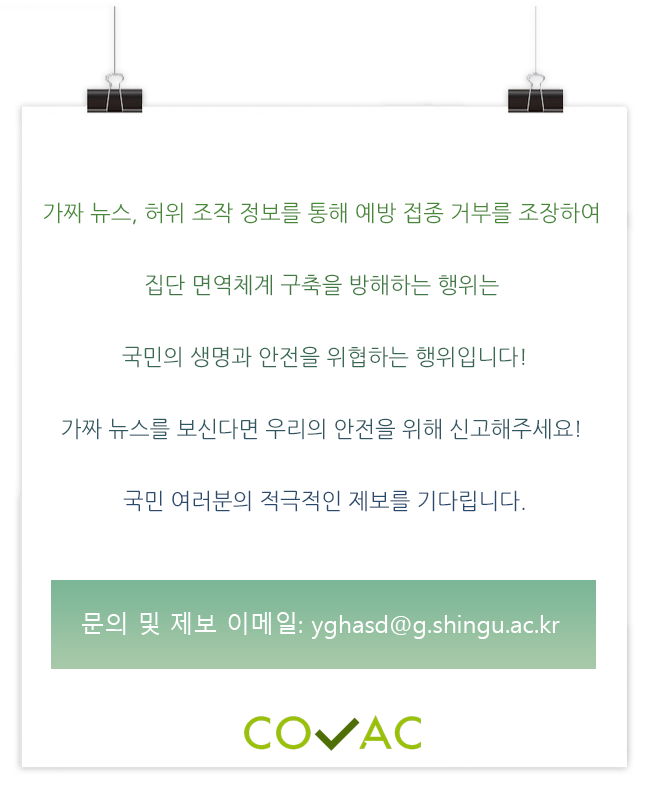
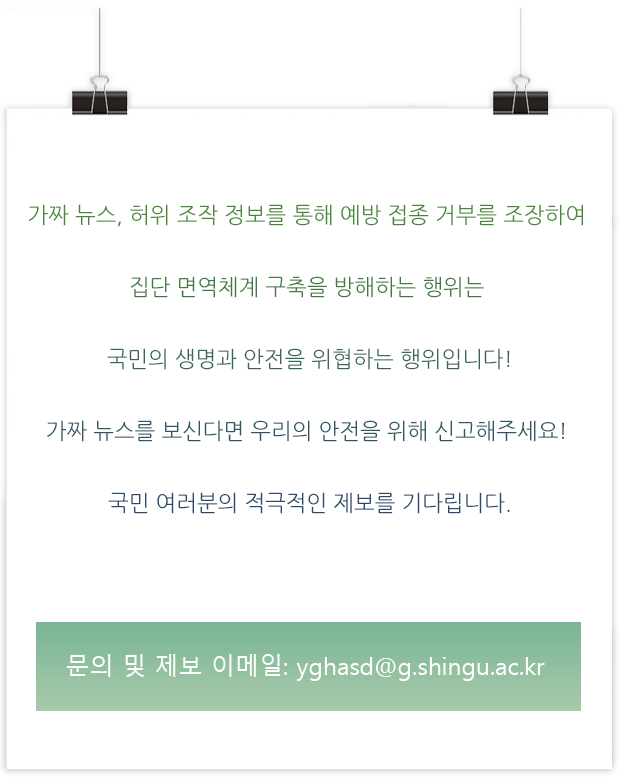
광고 사진 수정 공지사항 페이지 사진 수정

diff --git a/index.html b/index.html
@@ -465,7 +465,7 @@
 									<div class="ad_wrapper_mainpage">
 										<script type="text/javascript">
 												var imgArray= new Array();
-												imgArray[0] = "./src/assets/ad1.png";
+												imgArray[0] = "./src/assets/ad.png";
 												imgArray[1] = "./src/assets/ad2.png";
 												imgArray[2] = "./src/assets/ad3.png";
 												imgArray[3] = "./src/assets/ad4.png";

diff --git a/index.php b/index.php
@@ -514,7 +514,7 @@
 									<div class="ad_wrapper_mainpage">
 										<script type="text/javascript">
 												var imgArray= new Array();
-												imgArray[0] = "./src/assets/ad1.png";
+												imgArray[0] = "./src/assets/ad.png";
 												imgArray[1] = "./src/assets/ad2.png";
 												imgArray[2] = "./src/assets/ad3.png";
 												imgArray[3] = "./src/assets/ad4.png";

diff --git a/index_origin.php b/index_origin.php
@@ -440,7 +440,7 @@
 									<div class="ad_wrapper_mainpage">
 										<script type="text/javascript">
 												var imgArray= new Array();
-												imgArray[0] = "./src/assets/ad1.png";
+												imgArray[0] = "./src/assets/ad.png";
 												imgArray[1] = "./src/assets/ad2.png";
 												imgArray[2] = "./src/assets/ad3.png";
 												imgArray[3] = "./src/assets/ad4.png";

diff --git a/board_read.php b/board_read.php
@@ -107,7 +107,7 @@
           <div id="footer_section_container">
             <section>
               <div class="ad_wrapper_mainpage">
-                <img src="./src/assets/ad1.png" width="650"alt="ad" />
+                <img src="./src/assets/ad.png" width="650"alt="ad" />
               </div>
             </section>
           </div>

diff --git a/board.php b/board.php
@@ -188,7 +188,7 @@
 						<div id="footer_section_container">
 							<section>
 								<div class="ad_wrapper_mainpage">
-									<img src="./src/assets/ad1.png" width="650"alt="ad" />
+									<img src="./src/assets/ad.png" width="650"alt="ad" />
 								</div>
 							</section>
 						</div>

diff --git a/check_vac.php b/check_vac.php
@@ -201,7 +201,7 @@
 						<div id="footer_section_container">
 							<section>
 								<div class="ad_wrapper_mainpage">
-									<img src="./src/assets/ad1.png" width="650"alt="ad" />
+									<img src="./src/assets/ad.png" width="650"alt="ad" />
 								</div>
 							</section>
 						</div>

diff --git a/announce_3.php b/announce_3.php
@@ -69,7 +69,7 @@
 						<div id="footer_section_container">
 							<section>
 								<div class="ad_wrapper_mainpage">
-									<img src="./src/assets/ad1.png" width="650"alt="ad" />
+									<img src="./src/assets/ad.png" width="650"alt="ad" />
 								</div>
 							</section>
 						</div>

diff --git a/arti_vac_result.php b/arti_vac_result.php
@@ -169,7 +169,7 @@
   <div id="footer_section_container">
     <section>
       <div class="ad_wrapper_mainpage">
-        <img src="./src/assets/ad1.png" width="650"alt="ad" />
+        <img src="./src/assets/ad.png" width="650"alt="ad" />
       </div>
     </section>
   </div>
